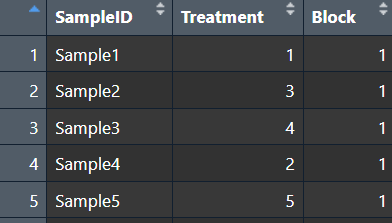
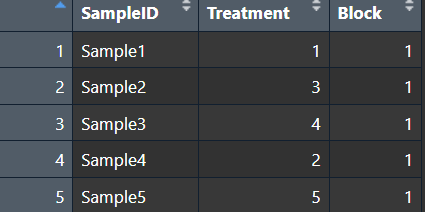
V2.0.1

diff --git a/README.md b/README.md
@@ -103,8 +103,13 @@ Your metadata must be formatted with samples as rows and features as columns (op
 
 ```{r}
 print(Metadata[1:5,])
-rownames(Metadata)<-Metadata$SampleID
 ```
+![](images/Metadata_Demo.png)
+```{r}
+rownames(Metadata)<-Metadata$SampleID
+print(Metadata[1:5,])
+```
+![](images/Metadata_Demo_Clean.png
 
 ## Performing an analysis with Genomica
 
